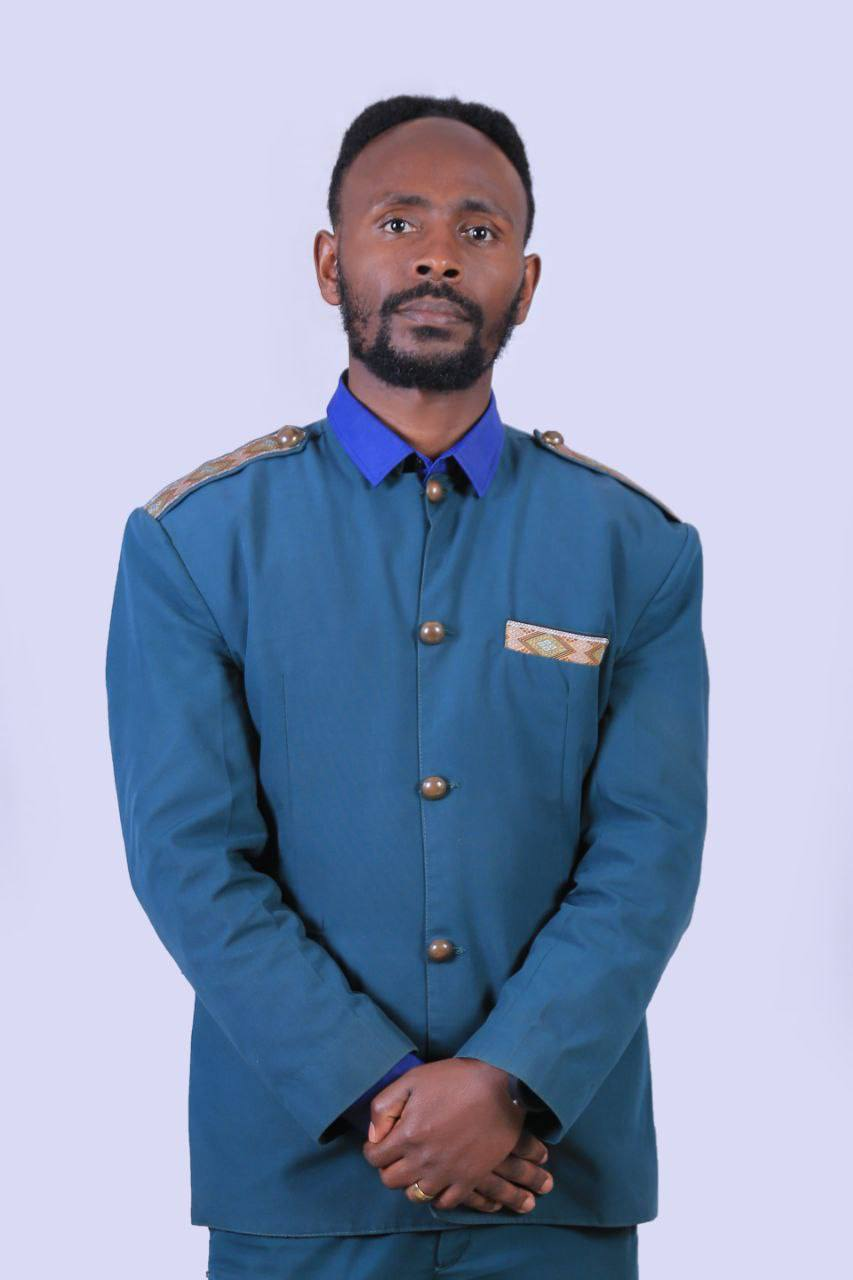
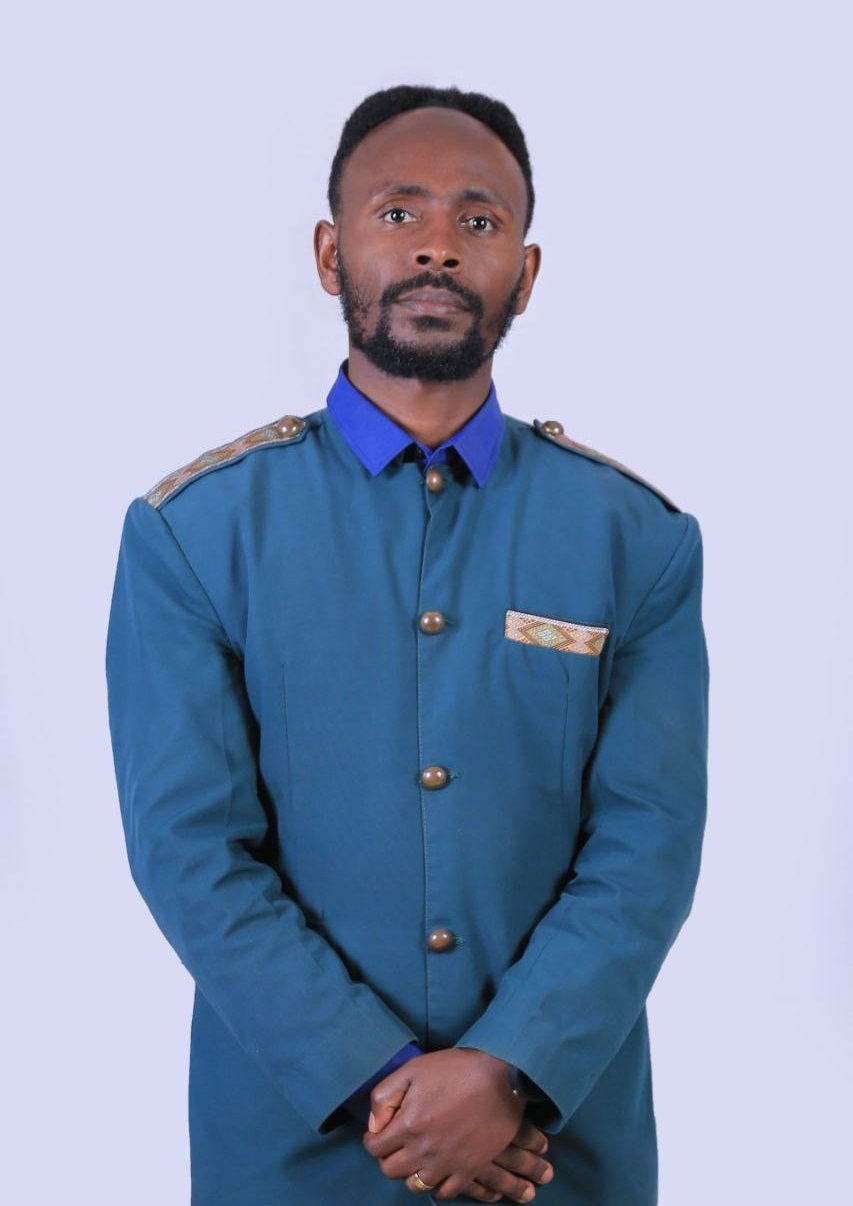
new update

diff --git a/index.html b/index.html
@@ -108,8 +108,8 @@
                 <!-- Staff Member 2 -->
                 <div class="staff-member">
                     <img src="images/yesura.jpg" alt="Staff 2">
-                    <h3>Yesura Denberu</h3>
-                    <p>Daytime Reception</p>
+                    <h3>Yesusra Denberu</h3>
+                    <p>Day time Reception</p>
                 </div>
     
                 <!-- Staff Member 3 -->
@@ -118,27 +118,28 @@
                     <h3>Yohannes Seyoum</h3>
                     <p>Plumbing Maintenance</p>
                 </div>
-    
-                <!-- Staff Member 4 -->
-                <div class="staff-member">
+     <!-- Staff Member 5 -->
+     <div class="staff-member">
+        <img src="images/habtam1.jpg" alt="Staff 5">
+        <h3>Habtamu Haile</h3>
+        <p>Security Supervisor</p>
+    </div>
+
+               <!-- Staff Member 4 -->
+              <!-- <div class="staff-member">
                     <img src="images/bekalu.jpg" alt="Staff 4">
                     <h3>Bekalu Yirga</h3>
                     <p>Electro-Mechanical Maintenance</p>
-                </div>
+                </div> --> 
     
-                <!-- Staff Member 5 -->
-                <div class="staff-member">
-                    <img src="images/habtam.jpg" alt="Staff 5">
-                    <h3>Habtamu Haile</h3>
-                    <p>Security Supervisor</p>
-                </div>
+               
     
-                <!-- Staff Member 6 -->
-                <div class="staff-member">
+              <!--   Staff Member 6 -->
+               <!-- <div class="staff-member">
                     <img src="images/natnael.jpg" alt="Staff 6">
                     <h3>Natnael Mulugeta</h3>
                     <p>Nighttime Reception and Maintenance</p>
-                </div>
+                </div>   -->
             </div>
         </div>
     </section>
@@ -210,7 +211,7 @@
             <a href="https://https://wa.me/+251995560102" target="_blank">
                 <img src="images/whatsapp-icon.png" alt="WhatsApp" />
             </a>
-            <a href="https://www.instagram.com/yourprofile" target="_blank">
+            <a href="https://www.instagram.com/bloom_property_?igsh=OXk2eWR0eWcyZWV2&utm_source=qr" target="_blank">
                 <img src="images/instagram-icon.png" alt="Instagram" />
             </a>
             <a href="https://www.linkedin.com/company/yourcompany" target="_blank">
